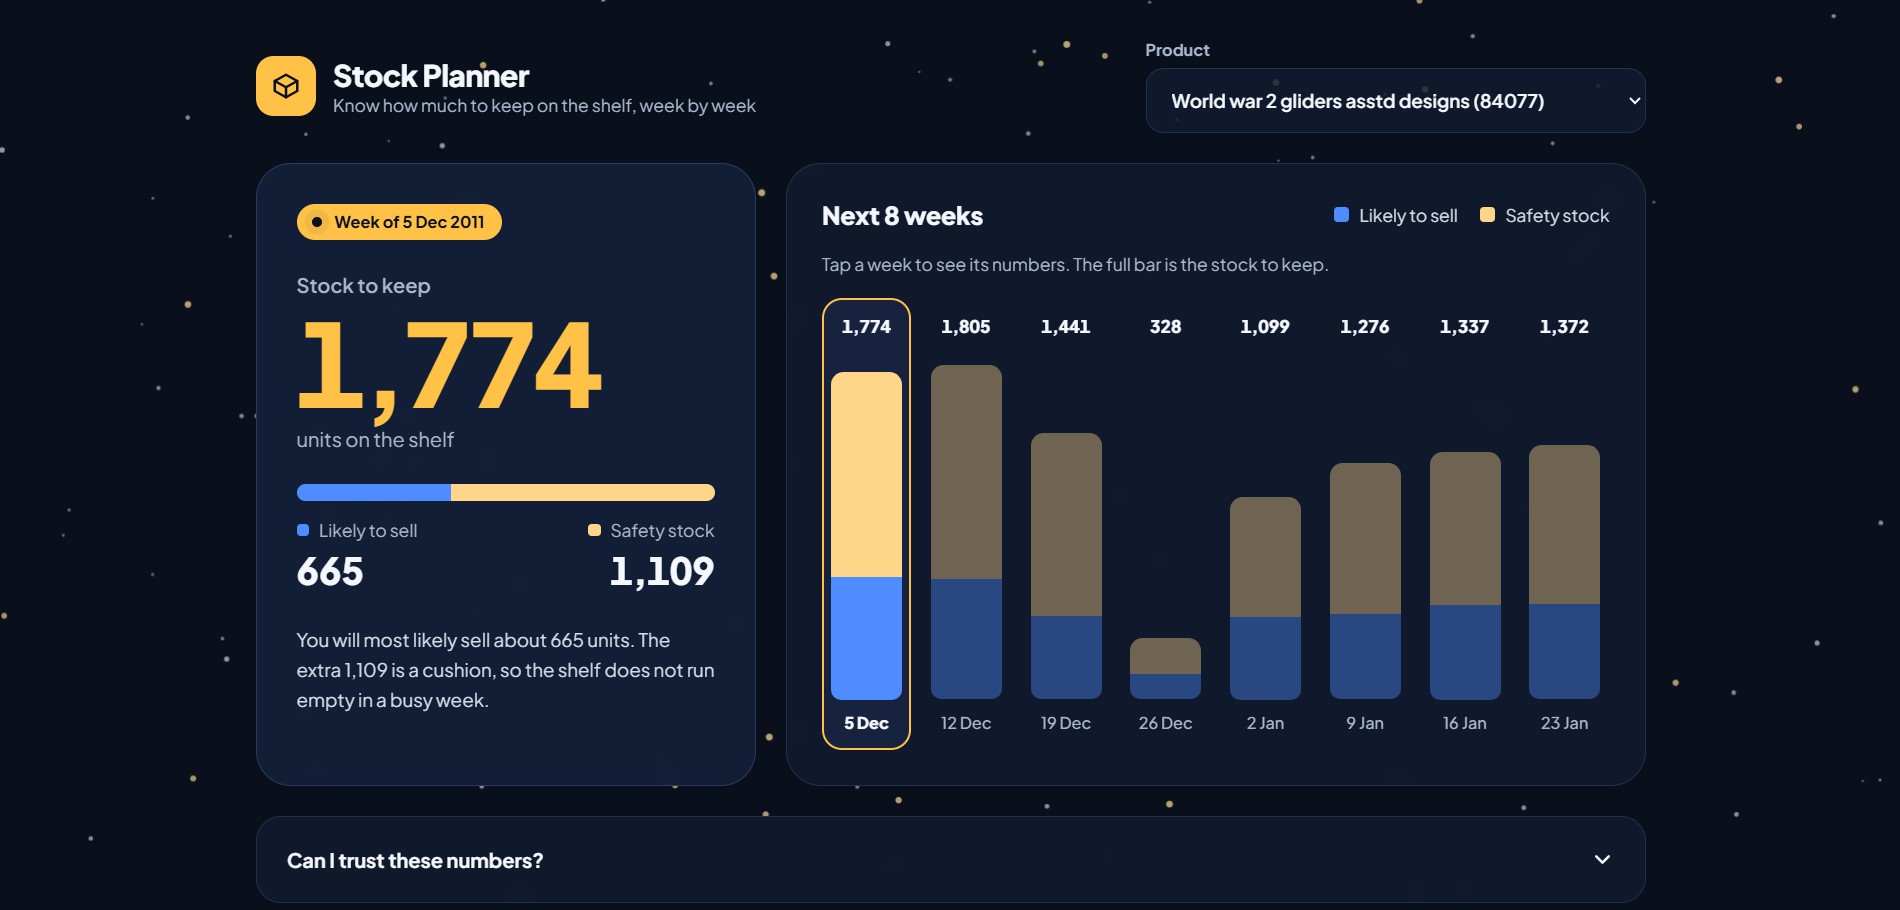
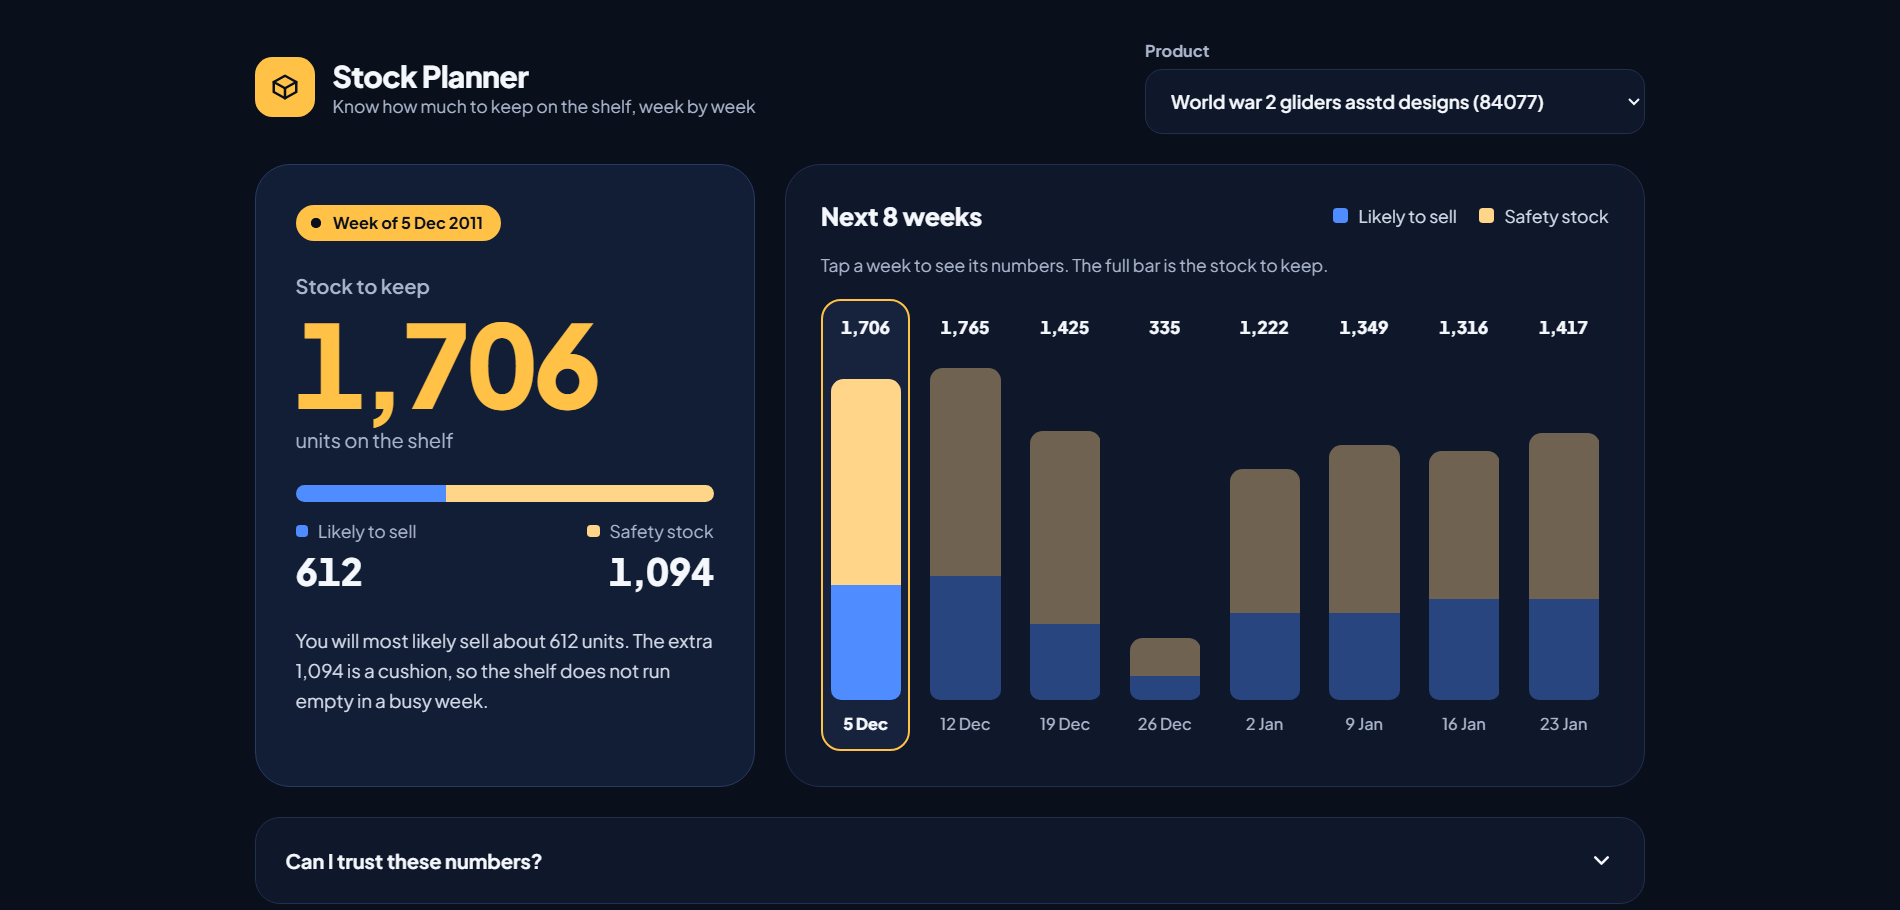
README and screenshot fixes from a final review
- Screenshot retaken from the live app, so it shows the deployed model
- README: test fold wording (never used for decisions, reported twice),
  Diebold-Mariano p-values labelled as 32 weeks, bulk under-forecast 77-80%
- Notebook 05: drop a tqdm warning output that showed a local file path

diff --git a/README.md b/README.md
@@ -67,7 +67,7 @@ Every removal is counted in `data/processed/cleaning_log.csv`.
 ### 3. Honest evaluation setup (`03_baselines.ipynb`)
 - **Rolling-origin backtest.** Each fold trains only on the past and forecasts the next 8 weeks.
 - **3 validation folds** were used for every design and tuning decision.
-- **1 test fold** (10 Oct – 28 Nov 2011, the peak gift season) was used **once**, at the very end.
+- **1 test fold** (10 Oct – 28 Nov 2011, the peak gift season) was **never used for any decision**. It only reports the final result: once for the Part 4 model and once for the Part 7 model, after its features had been chosen on validation.
 - Main metric: **WAPE**, the total absolute error divided by total units. Also reported: MAE, Bias, MASE, and WAPE with bulk-order weeks removed.
 - Baselines: naive, moving averages over 4, 8 and 13 weeks, seasonal naive, and a level-adjusted seasonal naive.
 
@@ -141,7 +141,7 @@ A single test score depends on which products and which weeks happened to be in 
 - **Bootstrap confidence intervals:** the 100 test products are resampled with replacement 10,000 times (each product keeps its 8 weeks). A **paired** version compares two models on the same resampled products.
 - **Diebold-Mariano test:** compares the weekly errors of two models over the 32 forecast weeks of all four folds, allowing for errors up to 7 weeks apart to be correlated, with the Harvey–Leybourne–Newbold small-sample correction.
 
-| Comparison (test fold) | WAPE difference | Paired bootstrap 95% CI | Diebold-Mariano p-value |
+| Comparison | WAPE difference (test fold) | Paired bootstrap 95% CI (test fold) | Diebold-Mariano p-value (32 weeks) |
 |---|---|---|---|
 | LightGBM (Part 7) vs moving average | −5.1 pp | −7.7 to −3.0 pp | **0.002** |
 | LightGBM (Part 4) vs moving average | −4.5 pp | −7.1 to −2.4 pp | **0.013** |
@@ -149,7 +149,7 @@ A single test score depends on which products and which weeks happened to be in 
 
 - **LightGBM beats the moving average in both tests.** This is the main claim of the project, and it holds.
 - **The order-feature gain is small:** it is consistent across products (better in 99% of bootstrap samples) but **not significant over time** (p ≈ 0.07), so it is described as a small improvement, not a big one.
-- **The gain is not in bulk-order weeks:** about 1,200 of the 1,300 units of lower test error come from normal weeks. The 31 bulk-order product-weeks still cause about 28% of the error and are about 77% under-forecast by every model.
+- **The gain is not in bulk-order weeks:** about 1,200 of the 1,300 units of lower test error come from normal weeks. The 31 bulk-order product-weeks still cause about 28% of the error, and every model forecasts them 77–80% too low.
 - The deployed model's test WAPE of 52.9% has a 95% CI of **48.0%–57.7%**, and its p10–p90 coverage interval (77.6%–85.1%) contains the 80% target.
 
 ---
